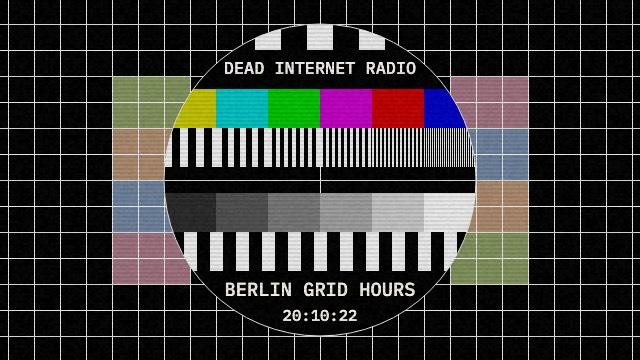
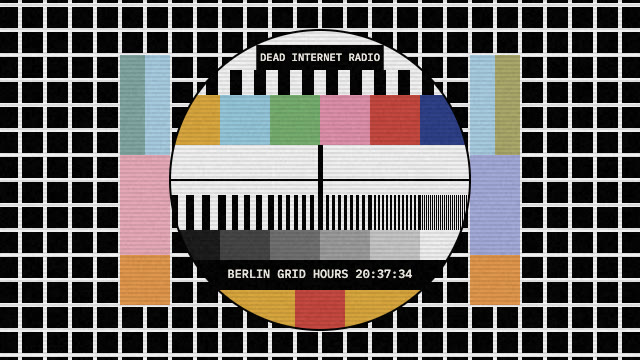
fix: the test card ident now follows the PM5544 layout
White circle, thick-lined grid, narrow pastel side columns, and the station text small inside the black bars. Poster regenerated.

diff --git a/public/labs/station-ident-lab.html b/public/labs/station-ident-lab.html
@@ -1207,84 +1207,93 @@ V.push({
   },
 });
 
-// V25 — PM5544-style test card: drawn once per size, only the text is live
-const CARD = { white: '#e8e8e8', bars: ['#bfbf00', '#00bfbf', '#00bf00', '#bf00bf', '#bf0000', '#0000bf'], side: ['#7f8f5a', '#a8876a', '#6b7f99', '#9c6f7c'] };
+// V25 — PM5544 test card: drawn once per size, only the text is live
+const CARD = {
+  white: '#f2f2f2', ink: '#000',
+  bars: ['#d8a53a', '#93c6da', '#74ad6c', '#dd8ea8', '#c4453c', '#2b3d86'],
+  left: { top: ['#7fa5a0', '#a6cce0'], lower: '#e6a8b6', bottom: '#e0954a' },
+  right: { top: ['#a6cce0', '#a9a768'], lower: '#a2a9d8', bottom: '#e0954a' },
+};
+
+// Rows are in grid cells from the centre; the circle spans -6 to 6.
+const CARD_ROW = { name: [-5.4, -4.4], teeth: [-4.4, -3.4], bars: [-3.4, -1.4], cross: [-1.4, .6], grating: [.6, 2], wedge: [2, 3.2], show: [3.2, 4.4], foot: [4.4, 6] };
 
 function cardBackdrop(w, h) {
   const card = document.createElement('canvas'); card.width = w; card.height = h;
   const c = card.getContext('2d');
-  const g = Math.max(4, Math.round(Math.min(w, h) / 14)), R = 6 * g;
-  const cx = Math.round(w / 2), cy = Math.round(h / 2), line = Math.max(1, Math.round(g / 26));
+  // Fourteen rows high, as the 4:3 original; narrow screens shrink it to keep the side columns.
+  const g = Math.max(4, Math.floor(Math.min(h / 14, w / 17))), R = 6 * g;
+  const cx = Math.round(w / 2), cy = Math.round(h / 2);
+  const line = Math.max(2, Math.round(g / 7));
   const at = n => cy + Math.round(n * g);
-  c.fillStyle = '#000'; c.fillRect(0, 0, w, h);
+  const box = (x0, y0, x1, y1, fill) => { c.fillStyle = fill; c.fillRect(x0, y0, x1 - x0, y1 - y0); };
 
-  // Side bars run behind the circle, so some shows at any aspect.
-  for (let i = 0; i < 4; i++) {
-    const y = cy + (i - 2) * 2 * g;
-    c.fillStyle = CARD.side[i]; c.fillRect(cx - 8 * g, y, 3 * g, 2 * g);
-    c.fillStyle = CARD.side[3 - i]; c.fillRect(cx + 5 * g, y, 3 * g, 2 * g);
-  }
-
+  box(0, 0, w, h, CARD.ink);
   // The grid hangs off the centre and runs out through every edge.
-  c.fillStyle = CARD.white;
-  for (let x = cx % g; x < w; x += g) c.fillRect(x - (line >> 1), 0, line, h);
-  for (let y = cy % g; y < h; y += g) c.fillRect(0, y - (line >> 1), w, line);
+  for (let x = cx % g; x <= w; x += g) box(x - (line >> 1), 0, x - (line >> 1) + line, h, CARD.white);
+  for (let y = cy % g; y <= h; y += g) box(0, y - (line >> 1), w, y - (line >> 1) + line, CARD.white);
+
+  // Two narrow columns of stacked pastel blocks either side of the circle.
+  [[-1, CARD.left], [1, CARD.right]].forEach(([side, col]) => {
+    const x = n => cx + side * n * g, edge = (a, b, y0, y1, fill) => box(Math.min(x(a), x(b)), at(y0), Math.max(x(a), x(b)), at(y1), fill);
+    const [outer, inner] = side < 0 ? col.top : [...col.top].reverse();
+    edge(7, 8, -5, -1, outer); edge(6, 7, -5, -1, inner);
+    edge(6, 8, -1, 3, col.lower);
+    edge(6, 8, 3, 5, col.bottom);
+  });
 
   c.save();
   c.beginPath(); c.arc(cx, cy, R, 0, TAU); c.clip();
-  c.fillStyle = '#000'; c.fillRect(cx - R, cy - R, 2 * R, 2 * R);
+  box(cx - R, cy - R, cx + R, cy + R, CARD.white);
   const left = cx - R, span = 2 * R;
-  const row = (from, to, fill) => { c.fillStyle = fill; c.fillRect(left, at(from), span, at(to) - at(from)); };
-  const blocks = (from, to, n, paint) => {
+  const blocks = ([from, to], n, paint) => {
     for (let i = 0; i < n; i++) {
-      const x = left + Math.round(i * span / n), xw = left + Math.round((i + 1) * span / n) - x;
-      paint(i, x, at(from), xw, at(to) - at(from));
+      const x = left + Math.round(i * span / n), x1 = left + Math.round((i + 1) * span / n);
+      paint(i, x, at(from), x1, at(to));
     }
   };
-  const castellate = (from, to, size) => {
-    row(from, to, '#000'); c.fillStyle = CARD.white;
-    // A white block sits on the centre line, so the row mirrors left to right.
-    for (let k = -Math.ceil(R / size) & ~1; k * size < R; k += 2) c.fillRect(cx + k * size - (size >> 1), at(from), size, at(to) - at(from));
-  };
 
-  castellate(-6, -5, g);
-  blocks(-3.5, -2, 6, (i, x, y, xw, yh) => { c.fillStyle = CARD.bars[i]; c.fillRect(x, y, xw, yh); });
+  // Black bar for the station, cut to fit under the top of the circle.
+  box(cx - 2.55 * g, at(CARD_ROW.name[0]), cx + 2.55 * g, at(CARD_ROW.name[1]), CARD.ink);
+  // Castellations, white on the centre line so the row mirrors.
+  blocks(CARD_ROW.teeth, 25, (i, x, y, x1, y1) => box(x, y, x1, y1, i % 2 ? CARD.ink : CARD.white));
+  blocks(CARD_ROW.bars, 6, (i, x, y, x1, y1) => box(x, y, x1, y1, CARD.bars[i]));
+  // Centre cross.
+  const bar = Math.max(2, Math.round(g / 5)), hair = Math.max(1, Math.round(g / 14));
+  box(left, cy - (hair >> 1), left + span, cy - (hair >> 1) + hair, CARD.ink);
+  box(cx - (bar >> 1), at(CARD_ROW.cross[0]), cx - (bar >> 1) + bar, at(CARD_ROW.cross[1]), CARD.ink);
   // Resolution gratings: stripes in whole pixels, finer to the right.
-  const pitch = Math.max(1, Math.round(g / 40));
-  blocks(-2, -.5, 6, (i, x, y, xw, yh) => {
+  const pitch = Math.max(1, Math.round(g / 30));
+  blocks(CARD_ROW.grating, 6, (i, x, y, x1, y1) => {
     const stripe = [8, 6, 4, 3, 2, 1][i] * pitch;
-    c.fillStyle = '#000'; c.fillRect(x, y, xw, yh);
-    c.fillStyle = CARD.white;
-    for (let s = 0; s < xw; s += stripe * 2) c.fillRect(x + s, y, Math.min(stripe, xw - s), yh);
+    box(x, y, x1, y1, CARD.white);
+    for (let s = x; s < x1; s += stripe * 2) box(s, y, Math.min(s + stripe, x1), y1, CARD.ink);
   });
-  // Centre band and cross.
-  c.fillStyle = CARD.white;
-  c.fillRect(left, cy - (line >> 1), span, line);
-  c.fillRect(cx - (line >> 1), at(-.5), line, at(.5) - at(-.5));
-  // Grey step wedge.
-  blocks(.5, 2, 6, (i, x, y, xw, yh) => { const v = 40 + Math.round(i * 192 / 5); c.fillStyle = `rgb(${v},${v},${v})`; c.fillRect(x, y, xw, yh); });
-  castellate(2, 3.5, Math.round(g / 2));
+  // Grey step wedge, dark to light.
+  blocks(CARD_ROW.wedge, 6, (i, x, y, x1, y1) => { const v = 24 + Math.round(i * 216 / 5); box(x, y, x1, y1, `rgb(${v},${v},${v})`); });
+  box(left, at(CARD_ROW.show[0]), left + span, at(CARD_ROW.show[1]), CARD.ink);
+  box(left, at(CARD_ROW.foot[0]), left + span, at(CARD_ROW.foot[1]), CARD.bars[0]);
+  box(cx - g, at(CARD_ROW.foot[0]), cx + g, at(CARD_ROW.foot[1]), CARD.bars[4]);
   c.restore();
 
-  c.strokeStyle = CARD.white; c.lineWidth = line;
+  c.strokeStyle = CARD.ink; c.lineWidth = Math.max(1, Math.round(g / 14));
   c.beginPath(); c.arc(cx, cy, R, 0, TAU); c.stroke();
   return { card, g, cx, cy };
 }
 
 V.push({
   name: 'Test card · PM5544', seed: '7e21c4a9f03b6d58e1a2c970', L: 10,
-  idea: 'The old broadcast test card: white grid to every edge, muted side bars, and a round centre of castellations, colour bars, gratings and a grey wedge. The black bars carry the station, the show on air and the time.',
+  idea: 'The Philips broadcast test card: a white grid to every edge, pastel side columns and a white circle of castellations, colour bars, gratings and a grey wedge. Its black bars carry the station, the show on air and the time.',
   draw(c, w, h, t, S) {
     if (S.key !== w + 'x' + h) { S.key = w + 'x' + h; S.layout = cardBackdrop(w, h); }
     const { card, g, cx, cy } = S.layout;
-    const line = (s, y, size, maxW) => {
-      const px = fitFont(c, s, 500, size, maxW, (wt, p) => MONO(p, wt));
-      txt(c, s, cx, cy + y * g, MONO(px, 500), CREAM, 1, 'center', 'middle');
+    const line = (s, [from, to], maxW) => {
+      const px = fitFont(c, s, 500, .5 * g, maxW, (wt, p) => MONO(p, wt));
+      txt(c, s, cx, cy + (from + to) / 2 * g, MONO(px, 500), CREAM, 1, 'center', 'middle');
     };
     c.drawImage(card, 0, 0);
-    line('DEAD INTERNET RADIO', -4.25, .72 * g, 7.4 * g);
-    line(DATA.show.toUpperCase(), 4.25, .72 * g, 7.4 * g);
-    line(clock(), 5.25, .6 * g, 4.4 * g);
+    line('DEAD INTERNET RADIO', CARD_ROW.name, 4.8 * g);
+    line(`${DATA.show.toUpperCase()} ${clock()}`, CARD_ROW.show, 7.4 * g);
     noise(c, w, h, .03 + .6 * (1 - ramp(t, 0, .8)));
     scan(c, w, h, .08);
   },
